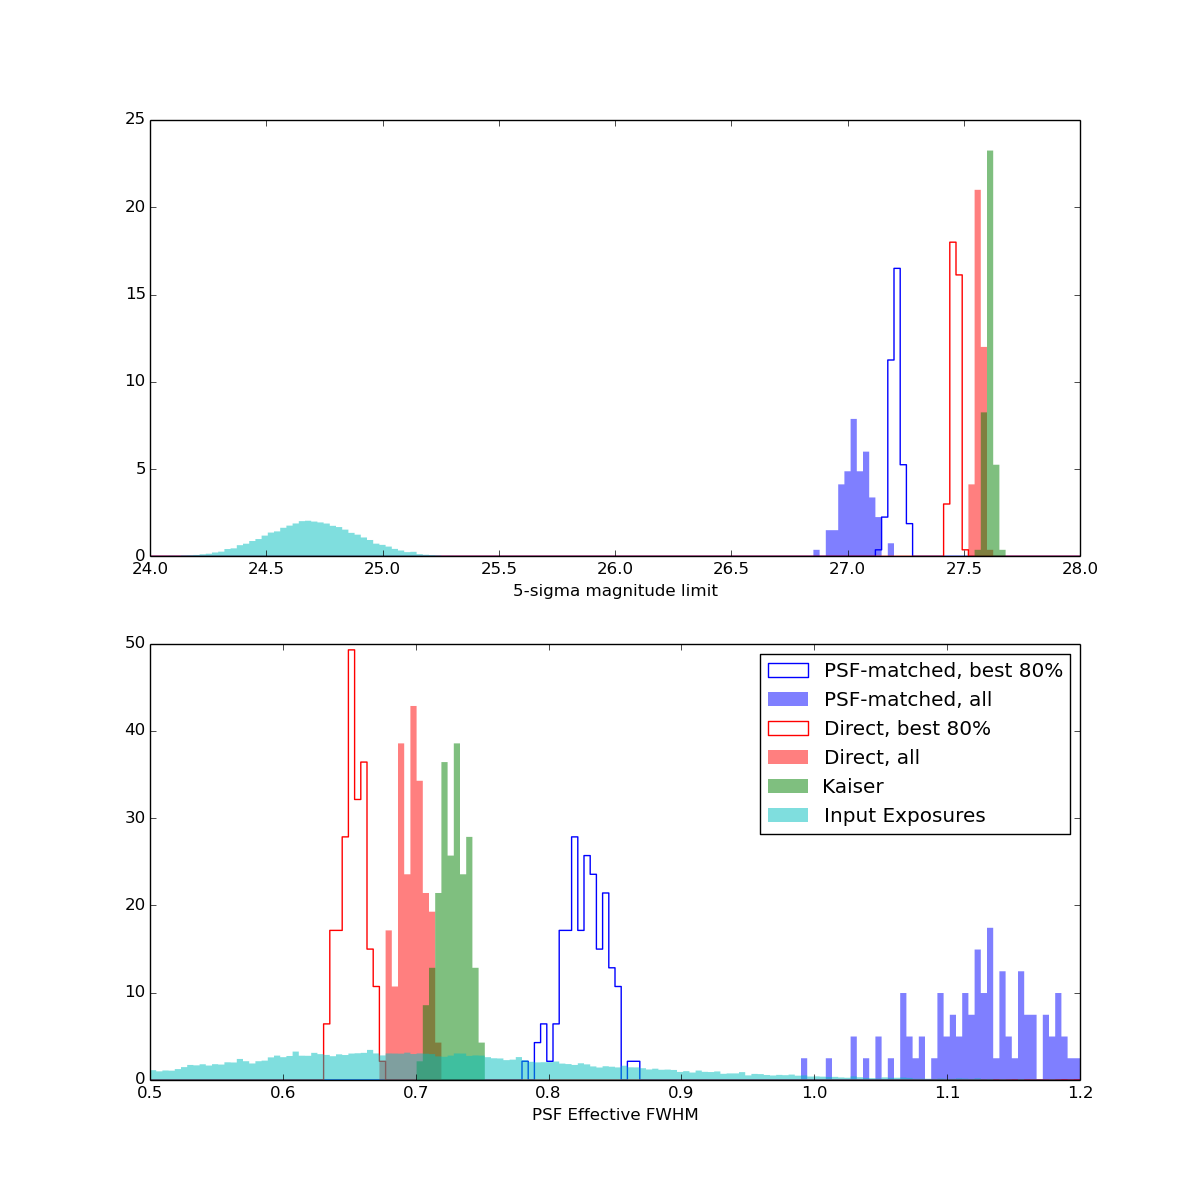
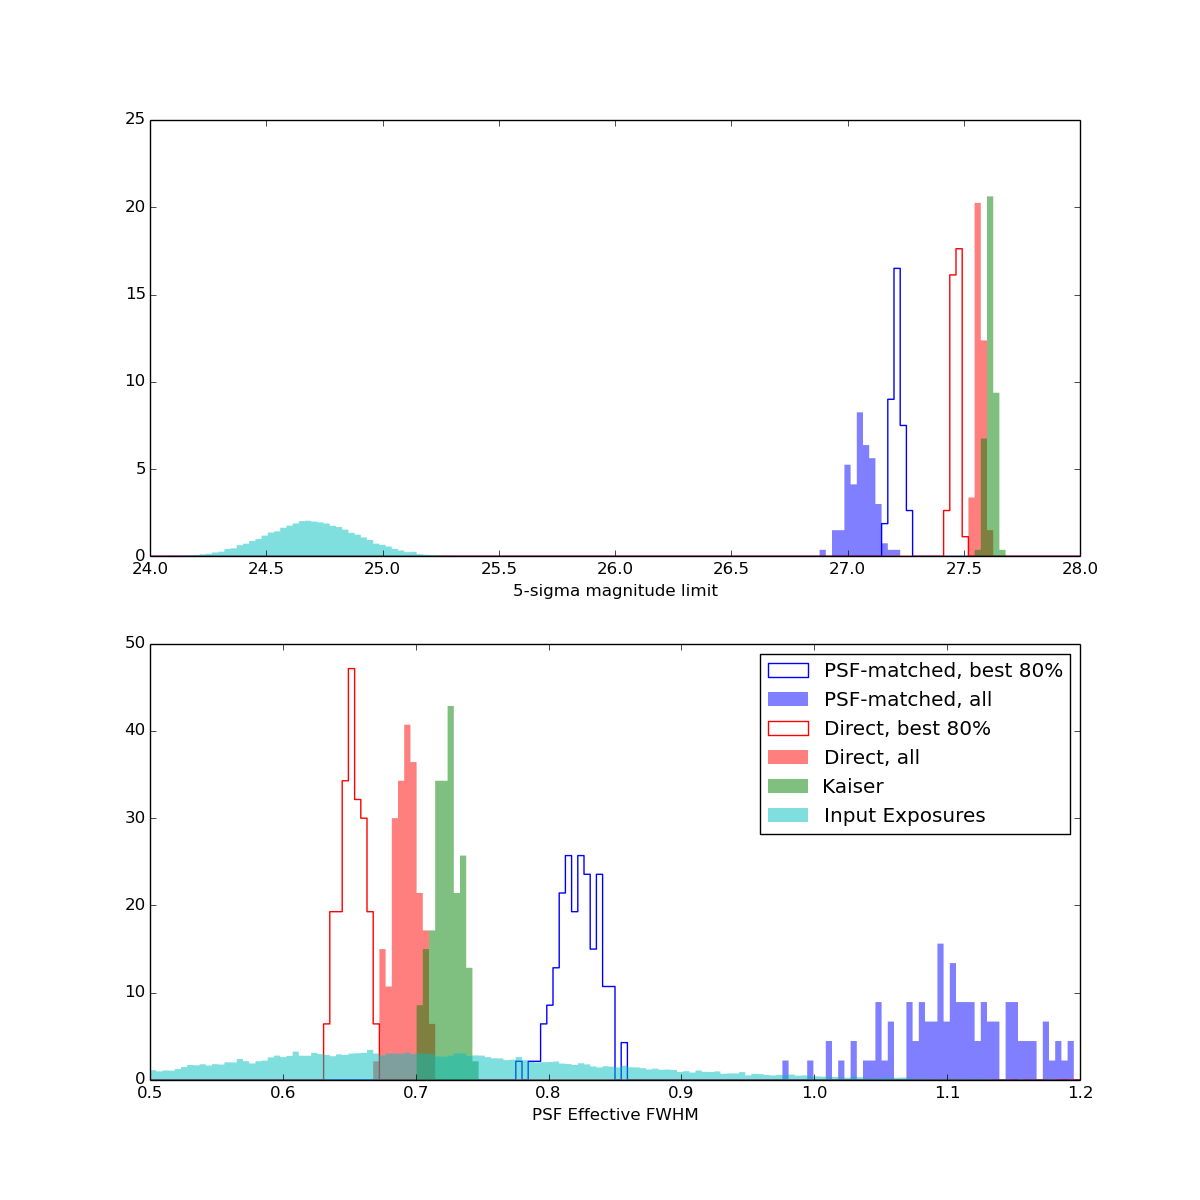
Switch to Kolmogorov profile in comparison plot.

diff --git a/comparison.py b/comparison.py
@@ -138,10 +138,8 @@ class CoaddMetricCalculator(object):
 
     def makePSF(self, fwhm):
         """Create a galsim.GSObject that represents a PSF with the given FWHM.
-
-        For simplicity and speed we just use Gaussian.
         """
-        return galsim.Gaussian(fwhm=fwhm)
+        return galsim.Kolmogorov(fwhm=fwhm)
 
     def buildInputs(self, fwhms, depths):
         """Build input PSFs and variances for a set of input images from their

diff --git a/index.rst b/index.rst
@@ -515,7 +515,7 @@ Quantitative Comparison
    :target: ../../_static/comparison.png
    :alt: Comparison of seeing and depth for different coadd algorithms
 
-The figure above shows predicted effective FWHM (calculated from PSF effective area) and 5-sigma point source limiting magnitude for different coadd algorithms.  Each data point in the histograms represents a coadd of 200 exposures, with seeing drawn from a log-normal distribution centered at 0.7 arcseconds and depth drawn from a normal distribution centered around 24.7.  Direct and PSF-matched coadds are weighted to optimize point source SNR.
+The figure above shows predicted effective FWHM (calculated from PSF effective area) and 5-sigma point source limiting magnitude for different coadd algorithms.  Each data point in the histograms represents a coadd of 200 exposures, with seeing drawn from a log-normal distribution centered at 0.7 arcseconds and depth drawn from a normal distribution centered around 24.7.  Direct and PSF-matched coadds are weighted to optimize point source SNR.  Input PSFs use a Kolmogorov profile.
 
 Note that the direct algorithm actually produces a smaller PSF than the Kaiser algorithm, even when the worst exposures are included (our choice of weight function strongly downweights these images).  This does *not* mean that it contains any more small-scale spatial information than the Kaiser coadd, as it always has lower SNR.  Even so, the improvement from direct to Kaiser algorithm is modest: when all exposures are included in the direct coadd, the Kaiser algorithm is only 0.1 magnitudes deeper.  The improvement from PSF-matched to direct coaddition is substantial in both PSF size and depth, especially when all exposures are included.  Imposing a cut on seeing percentile is clearly important for PSF-matched coaddition, but may not be important for direct coaddition, at least with the above choice of weight function.
 
